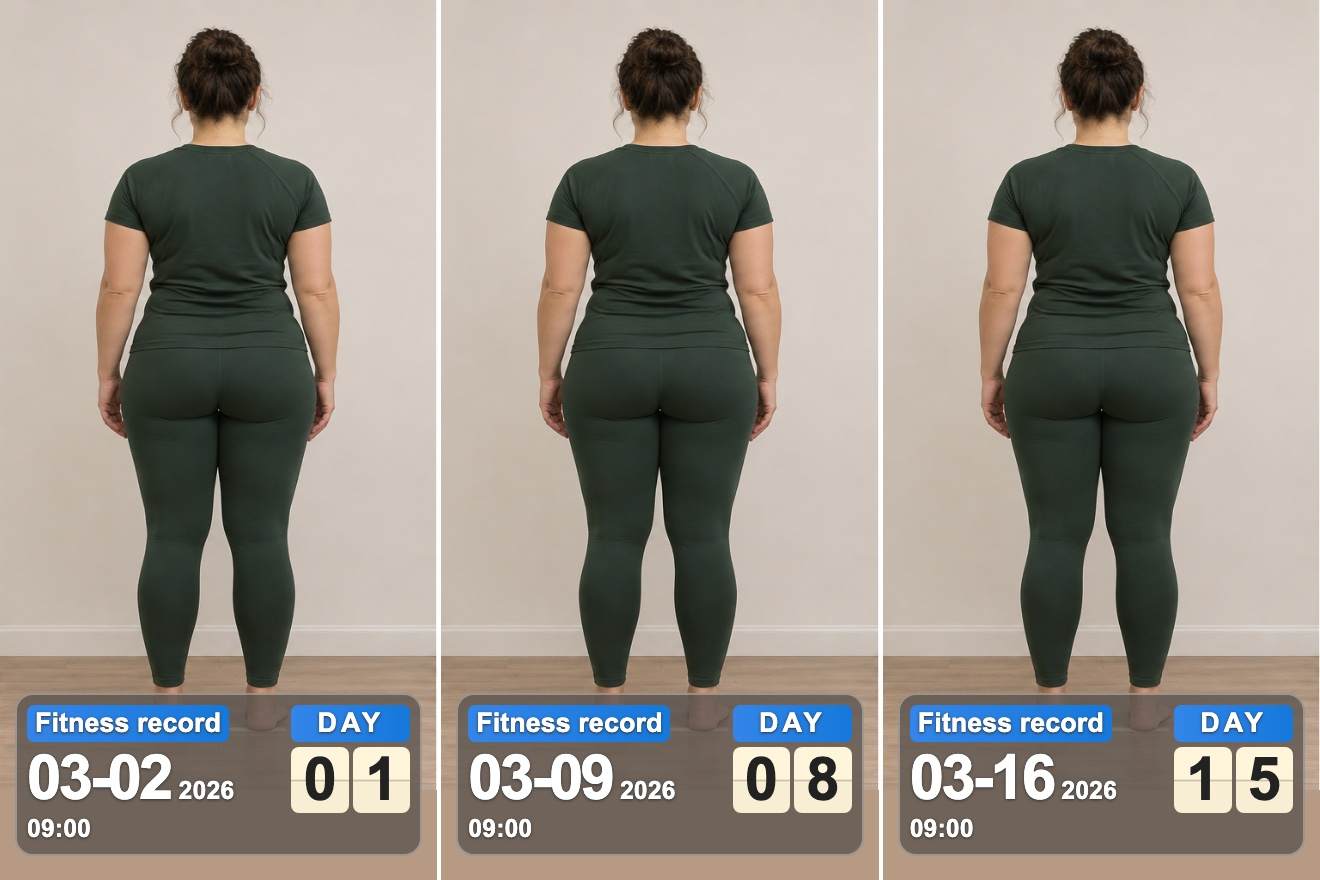
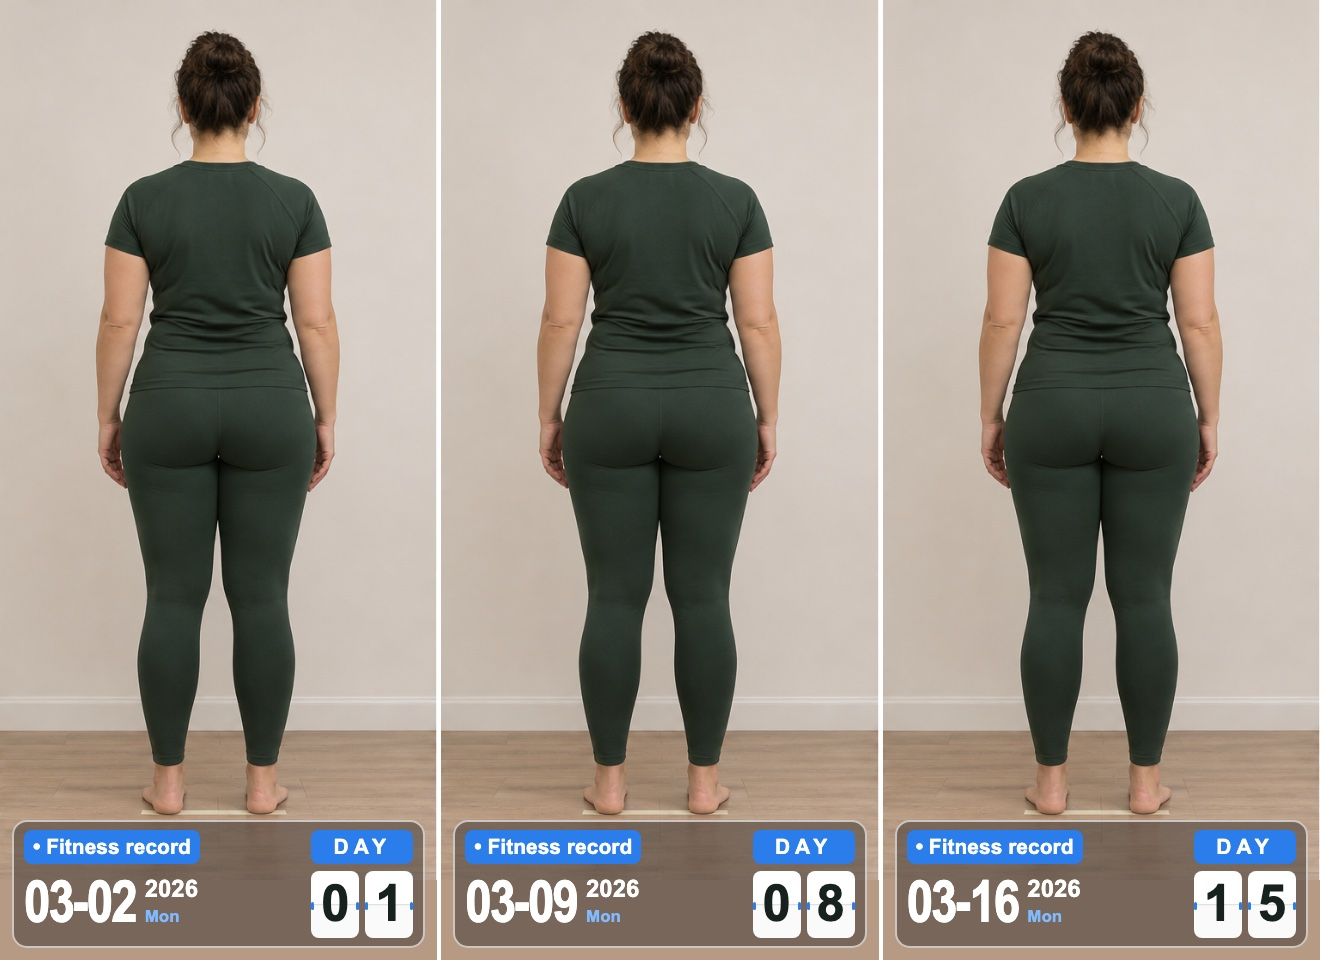
Tailor watermark fields to fitness and plant photos

diff --git a/blog/plant-growth-photos/index.html b/blog/plant-growth-photos/index.html
@@ -22,7 +22,8 @@
     <article>
     <header><h1>How to photograph plant growth from sowing to first leaves</h1><p class="lead">Set the sowing date as Day 1 to see when a seed sprouted and developed its first true leaves. Keep the camera angle steady so the photos are easier to compare.</p></header>
 
-<figure><img src="../../blog/assets/plant-growth.jpg" width="1320" height="880" alt="The same pot at sowing, sprouting, and first true leaves, with DAY 1, DAY 7, and DAY 14 watermarks"><figcaption>AI-generated photos with an illustration based on the app’s watermark. Example counts are DAY 1, DAY 7, and DAY 14 watermarks. Record each stage on the day you actually see it.</figcaption></figure>
+<figure><img src="../../blog/assets/plant-growth.jpg" width="1320" height="880" alt="The same pot at sowing, sprouting, and first true leaves, with DAY 1, DAY 7, and DAY 14 watermarks"><figcaption>AI-generated photos with the app’s watermark style recreated. The temperatures and humidity percentages are illustrative.</figcaption></figure>
+<p>For plant observations, you can keep the time, temperature, and humidity alongside the day count, and turn off the address.</p>
 <h2>Decide whether to start at sowing or sprouting</h2>
 <p>Use the sowing date if you want to know how long it took a seed to emerge. Use the first day you saw a shoot if you mainly want to compare the seedling after it sprouted. Keep that choice consistent within the series.</p>
 <h2>Take photos at three observable stages</h2>

diff --git a/zh-cn/blog/plant-growth-photos/index.html b/zh-cn/blog/plant-growth-photos/index.html
@@ -22,7 +22,8 @@
     <article>
     <header><h1>播种后第几天发芽？用照片做一份植物生长日记</h1><p class="lead">把播种日设为 Day 1，再记录第一次出芽和长出真叶的照片。每次尽量从同一角度拍，隔几天回看时更容易看出变化。</p></header>
 
-<figure><img src="../../../blog/assets/plant-growth.jpg" width="1320" height="880" alt="同一花盆在播种、出芽和真叶展开三个阶段的照片，分别带 DAY 1、DAY 7 和 DAY 14 水印"><figcaption>照片由 AI 生成，水印按 App 的模板样式重制。示例是第 1、7、14 天。实际记录时，以你观察到变化的当天为准。</figcaption></figure>
+<figure><img src="../../../blog/assets/plant-growth.jpg" width="1320" height="880" alt="同一花盆在播种、出芽和真叶展开三个阶段的照片，分别带 DAY 1、DAY 7 和 DAY 14 水印"><figcaption>底图由 AI 生成，水印按 App 模板重制。图中温度和湿度为示例值。</figcaption></figure>
+<p>记录植物时，可以在模板设置里保留时间、温度和湿度，关闭地址，让照片同时显示拍摄时段和当时的温湿度。</p>
 <h2>从播种还是发芽开始算？</h2>
 <p>想知道种子播下去多久才出土，就从播种当天开始算。如果主要想观察小苗出土之后怎么长，可以把第一次看到幼芽的日期设为 Day 1。同一组照片沿用同一个起点。</p>
 <h2>拍下三个容易对照的阶段</h2>

diff --git a/blog/fitness-progress-photos/index.html b/blog/fitness-progress-photos/index.html
@@ -22,7 +22,8 @@
     <article>
     <header><h1>How to take weekly fitness progress photos with a day count</h1><p class="lead">Take each photo from the same spot with the same framing and lighting. A day-count watermark shows when each photo falls in your training plan.</p></header>
 
-<figure><img src="../../blog/assets/fitness-progress.jpg" width="1320" height="880" alt="Three photos of the same rear-facing stance with DAY 1, DAY 8, and DAY 15 watermarks"><figcaption>AI-generated photos with an illustration based on the app’s watermark. The same stance and camera position are shown with DAY 1, DAY 8, and DAY 15 watermarks.</figcaption></figure>
+<figure><img src="../../blog/assets/fitness-progress.jpg" width="1320" height="960" alt="Three photos of the same rear-facing stance with DAY 1, DAY 8, and DAY 15 watermarks"><figcaption>AI-generated photos with the app’s watermark style recreated. This example shows the label, date, and day count.</figcaption></figure>
+<p>In the template settings, keep the label and the date and day count visible. Turn off address, time, temperature, and humidity for this setup.</p>
 <h2>Set up one repeatable photo spot</h2>
 <ol>
 <li>Pick one background with even light. Put the phone at a height you can reproduce, then mark where you stand.</li>

diff --git a/zh-cn/blog/fitness-progress-photos/index.html b/zh-cn/blog/fitness-progress-photos/index.html
@@ -22,7 +22,8 @@
     <article>
     <header><h1>健身进度照怎么拍？给每周照片标上计划第几天</h1><p class="lead">每次用同一机位、光线和构图拍照，再用天数水印标明拍摄当天是训练计划的第几天。</p></header>
 
-<figure><img src="../../../blog/assets/fitness-progress.jpg" width="1320" height="880" alt="同一人物用相同背面站姿拍摄的三张图，分别带 DAY 1、DAY 8 和 DAY 15 水印"><figcaption>照片由 AI 生成，水印按 App 的模板样式重制。三张图使用同一站姿，分别展示第 1、8、15 天的水印。</figcaption></figure>
+<figure><img src="../../../blog/assets/fitness-progress.jpg" width="1320" height="960" alt="同一人物用相同背面站姿拍摄的三张图，分别带 DAY 1、DAY 8 和 DAY 15 水印"><figcaption>底图由 AI 生成，水印按 App 模板重制。示例保留健身记录标签、日期和天数。</figcaption></figure>
+<p>在模板设置中保留「标识」和「日期徽标和天数」，把标识改成健身记录，再关闭地址、时间、温度和湿度。</p>
 <h2>先找一个每周都能复现的机位</h2>
 <ol>
 <li>找一个光线均匀的背景。固定手机高度，在地上标出站立位置。</li>
